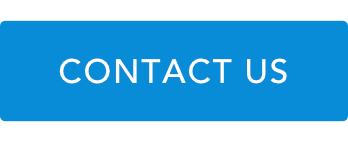
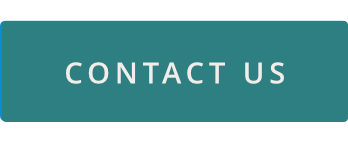
improved the layout added unsplashs photo API

diff --git a/assets/css/main.css b/assets/css/main.css
@@ -7,8 +7,8 @@
 
 
 @font-face {
+  font-family: 'Roboto Slab', serif;
   font-family: 'Open Sans';
-  src:  url('../fonts/Open_Sans/OpenSans-Regular.ttf') format('TrueType'),
 }
 
 .grid {
@@ -32,7 +32,7 @@ body {
 
 .heading5 {
   color: #cf6468;
-  font-family: Open Sans;
+  font-family: Roboto Slab;
   font-size: 20pt;
   letter-spacing: 1
 
@@ -48,7 +48,7 @@ body {
 }
 
 .nav_title {
-  font-family: Open Sans;
+  font-family: Roboto Slab;
   font-size: 2em;
   margin: 0;
   width: 3em;
@@ -76,7 +76,7 @@ body {
 
 .lable {
   color: #191E24;
-  font-family: Open Sans;
+  font-family: Roboto Slab;
   font-size: 1.8em;
   letter-spacing: 1;
   text-decoration: none;
@@ -121,7 +121,7 @@ h2 {
 span {
   font-size: 1.3em;
   display: block;
-  font-family: Open Sans;
+  font-family: Roboto Slab;
   font-weight: bolder;
   letter-spacing: 3px;
   color: hsl(177, 21%, 68%);
@@ -163,8 +163,8 @@ iframe {
 /* ::::::: HEADER ::::::: */
 
 .header {
-  background-image: url(../images/a.jpg);
-  background-size: cover;
+  background-image: url(https://source.unsplash.com/collection/2207799/landers);
+  background-size: cover;;
   height: auto;
   background-attachment: fixed;
   padding: 10% 0;
@@ -182,7 +182,7 @@ iframe {
   font-size: 8em;
   text-align: center;
   margin-top: 0;
-  font-family: Open Sans;
+  font-family: Roboto Slab;
   font-weight: bold;
   letter-spacing: 2px;
   color: hsl(173, 100%, 90%);
@@ -206,7 +206,7 @@ hr {
   font-family: Open Sans;
   font-weight: 400;
   letter-spacing: 3px;
-  color: hsl(177, 12%, 58%)
+  color: #dcdcdc;
 }
 
 .into_buttons {
@@ -229,7 +229,7 @@ hr {
 
 .service_header {
   font-size: 5em;
-  font-family: Open Sans;
+  font-family: Roboto Slab;
   font-weight: bold;
   letter-spacing: 2px;
   color: #191E24;
@@ -257,7 +257,7 @@ hr {
   text-align: center;
   /* max-width: 50%; */
   font-size: 2em;
-  font-family: Open Sans;
+  font-family: Roboto Slab;
   font-weight: bold;
   letter-spacing: 2px;
   color: #191E24;
@@ -266,7 +266,7 @@ hr {
 .video_s_paragraph {
   text-align: center;
   font-size: 2em;
-  font-family: Open Sans;
+  font-family: Roboto Slab;
   letter-spacing: 3px;
   font-variant-caps: all-petite-caps;
   color: hsla(213, 18%, 12%, 0.65);
@@ -289,7 +289,7 @@ hr {
   text-align: center;
   /* max-width: 50%; */
   font-size: 2em;
-  font-family: Open Sans;
+  font-family: Roboto Slab;
   font-weight: bold;
   letter-spacing: 2px;
   color: #191E24;
@@ -298,7 +298,7 @@ hr {
 .animation_s_paragraph {
   text-align: center;
   font-size: 2em;
-  font-family: Open Sans;
+  font-family: Roboto Slab;
   letter-spacing: 3px;
   font-variant-caps: all-petite-caps;
   color: hsla(213, 18%, 12%, 0.65);
@@ -374,7 +374,7 @@ hr {
 
 .animation_header {
     font-size: 5em;
-    font-family: Open Sans;
+    font-family: Roboto Slab;
     font-weight: bold;
     letter-spacing: 2px;
     color: hsl(0, 0%, 100%);
@@ -401,7 +401,7 @@ hr {
 
 .animation_youtube_text {
   font-size: 2.5em;
-  font-family: Open Sans;
+  font-family: Roboto Slab;
   font-weight: lighter;
   color: #ffffff;
   line-height: 1.5;
@@ -424,7 +424,7 @@ hr {
 
 .video_production_header {
   font-size: 5em;
-  font-family: Open Sans;
+  font-family: Roboto Slab;
   font-weight: bold;
   letter-spacing: 2px;
   color: #ffffff;
@@ -446,7 +446,7 @@ hr {
 
 .video_production_youtube_text {
   font-size: 2.5em;
-  font-family: Open Sans;
+  font-family: Roboto Slab;
   font-weight: lighter;
   color: #ffffff;
   line-height: 1.5;
@@ -459,7 +459,7 @@ hr {
 
 
 .contact {
-  background-image: url(../images/Mrr.jpg);
+  background-image: url(https://source.unsplash.com/collection/2207633/vintage-phones);
   /*background-position: 738px 0;*/
   background-repeat: no-repeat;
   /*background-size: 80%;*/
@@ -482,7 +482,7 @@ hr {
 
 .contact_header {
   font-size: 2em;
-  font-family: Open Sans;
+  font-family: Roboto Slab;
   font-weight: bold;
   letter-spacing: 2px;
   color:  #ffffff;
@@ -491,9 +491,9 @@ hr {
 
 .contact_text {
   font-size: 1em;
-  font-family: Open Sans;
+  font-family: Roboto Slab;
   letter-spacing: 1px;
-  color: #93a4b9;
+  color: #dcdcdc;
   line-height: 1.5em;
   width: 50%;
 }
@@ -511,7 +511,7 @@ hr {
 .footer_email_adress {
   text-align: center;
   font-size: 55pt;
-  font-family: Open Sans;
+  font-family: Roboto Slab;
   font-weight: lighter;
   letter-spacing: 2px;
   color: #cf6468;
@@ -884,7 +884,7 @@ hr {
   span {
     font-size: 1.3em;
     display: block;
-    font-family: Open Sans;
+    font-family: Roboto Slab;
     font-weight: bolder;
     margin-bottom: 0.5em;
     letter-spacing: 3px;
@@ -898,7 +898,7 @@ hr {
     display: block;
   }
   /*.mobile_sevices_text {
-    font-family: Open Sans;
+    font-family: Roboto Slab;
     font-size: 1.5em;
     width: 70%;
   }*/
@@ -1133,7 +1133,7 @@ hr {
   }
 
   .mobile_sevices_text {
-    font-family: Open Sans;
+    font-family: Roboto Slab;
     font-size: 1em;
     width: 80%;
   }

diff --git a/index.html b/index.html
@@ -9,7 +9,7 @@
     <!-- <script src="https://ajax.googleapis.com/ajax/libs/jquery/3.2.1/jquery.min.js"></script>  -->
     <script src="assets/js/jquery.min.js"></script>
     <link href="https://fonts.googleapis.com/css?family=Open+Sans" rel="stylesheet">
-    <link rel="stylesheet" href="assets/css/main.css">
+    <link href="https://fonts.googleapis.com/css?family=Roboto+Slab" rel="stylesheet">    <link rel="stylesheet" href="assets/css/main.css">
     <link rel="shortcut icon" type="image/png" href="assets/images/favicon.png"/>
     <script>
     $(document).ready(function(){
@@ -173,7 +173,7 @@
         <!-- :::::: ANIMATION LEFT COLLUM ::::::: -->
 
         <div class='animation_left_collum'>
-          <iframe width="560" height="315" src="https://www.youtube.com/embed/UZ36NEXXBeE" frameborder="0" allowfullscreen></iframe>
+          <iframe width="560" height="315" src="https://www.youtube.com/embed/RSueCVel1oc" frameborder="0" allow="autoplay; encrypted-media" allowfullscreen></iframe>
         </div>
 
         <!-- :::::: ANIMATION RIGHT COLLUM ::::::: -->
